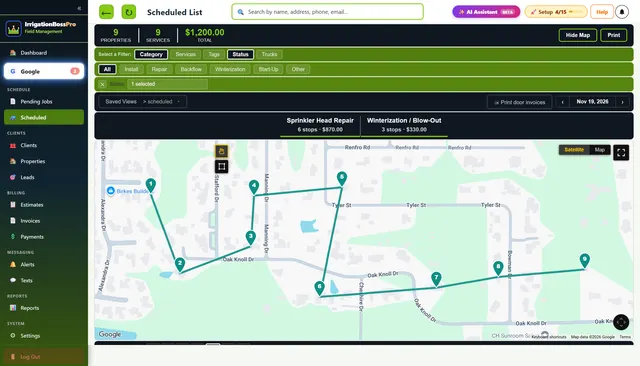
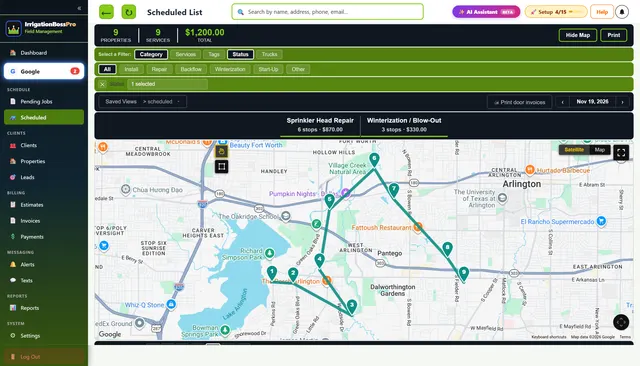
Homepage hero: realistic west Arlington irrigation route

Changed region(s): [[0.125, 0.3607, 1.0, 0.9317], [0.0, 0.1803, 0.1562, 0.2404], [0.9062, 0.3607, 0.9688, 0.3907]]

diff --git a/app/page.tsx b/app/page.tsx
@@ -294,7 +294,7 @@ export default function Home() {
           <span style={{display:'inline-flex', alignItems:'center', gap:7, background:'#fff', color:'#1f1f1f', borderRadius:20, padding:'6px 14px', fontWeight:800}}><span aria-hidden="true" style={{width:10, height:10, borderRadius:'50%', background:'#004b8d'}}></span>Paychex</span>
           <span>Connect to thousands of apps, and run payroll: hours, overtime, tips &amp; bonuses</span>
         </div>
-        <img src="/hero-mockup.webp" srcSet="/hero-mockup-640.webp 640w, /hero-mockup.webp 1200w" sizes="(max-width: 700px) 100vw, 1200px" fetchPriority="high" decoding="async" alt="IrrigationBossPro scheduled list with a tight neighborhood route in driving order" className="hero-mock" width={1600} height={914} />
+        <img src="/hero-mockup.webp" srcSet="/hero-mockup-640.webp 640w, /hero-mockup.webp 1200w" sizes="(max-width: 700px) 100vw, 1200px" fetchPriority="high" decoding="async" alt="IrrigationBossPro scheduled list with a day of irrigation stops across west Arlington in driving order" className="hero-mock" width={1600} height={914} />
         <div className="addons-label" style={{marginTop:'clamp(28px,4vw,44px)'}}>Add-ons</div>
         <p style={{ textAlign: 'center', color: 'rgba(255,255,255,.82)', fontSize: 'clamp(14px,1.7vw,16px)', lineHeight: 1.55, margin: '-6px auto 18px', maxWidth: 720 }}>All optional &mdash; use the ones you want, skip the ones you don&apos;t. Everything else in IrrigationBossPro works the same either way, and you can turn any of them on or off anytime.</p>
         <div className="addons">
